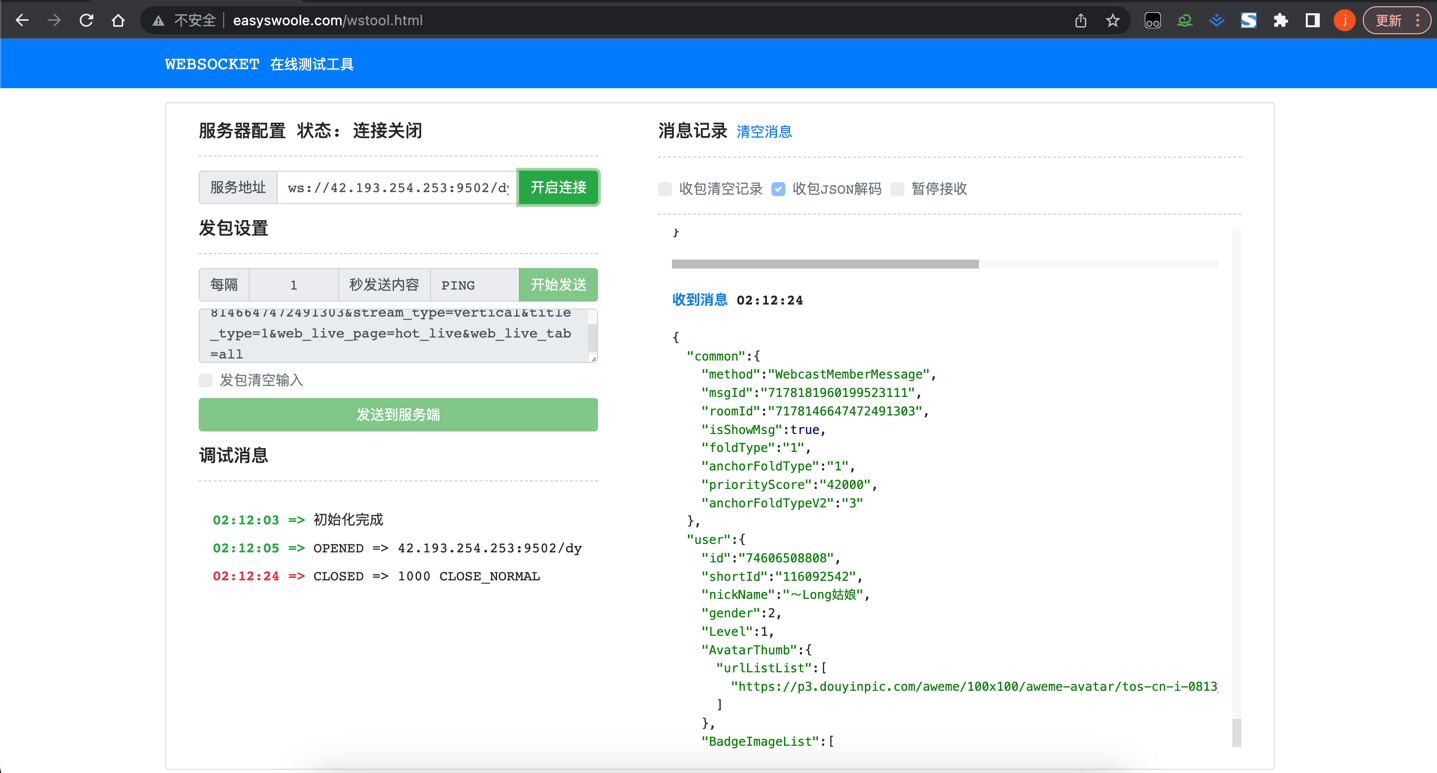
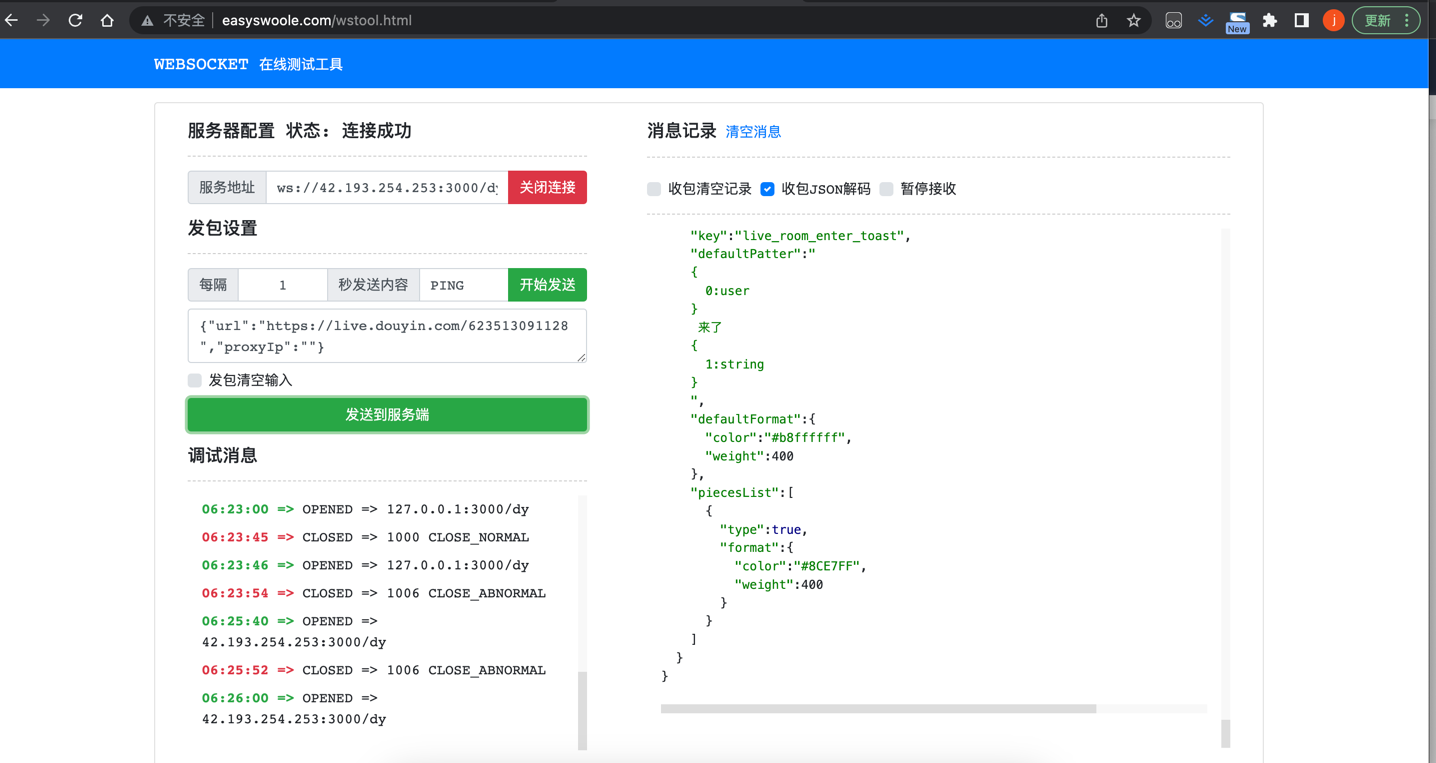
feat:增加文档说明

diff --git a/README.MD b/README.MD
@@ -1,6 +1,14 @@
 # 抖音网页版协议 👋
+## 版本更新记录📝
+| 版本   | 更新内容                                                                           | 更新时间       |
+|------|--------------------------------------------------------------------------------|------------|
+| v1.0 | 完成第一版抖音弹幕协议更新 （熬了好几夜一只是无法连接抖音ws，还特意去了解了一下ws底层远离，人都快痿了，最后坚持完成✊）                 | 2022.12.03 |
+| v1.1 | 抖音协议更新&增加用户信息字段                                                                | 2023.01.13 |
+| v1.2 | 修复Go服务端数据补全问题                                                                  | 2023.02.01 |
+| v1.3 | 重构Go快手服务端（增加代理IP传参,废弃PHP版本服务端，补全接入文档说明，增加`哔哩哔哩｜Bilibili`API接口【点赞、评论、分享、收藏、投币】） | 2023.02.15 |
 
-## [快手请移步👉](https://github.com/YunzhiYike/kuaishou-live)
+## [抖音请移步👉](https://github.com/YunzhiYike/douyin-live)
+## [bilibili接入文档👉](https://github.com/YunzhiYike/bilibili-openAPi)
 
 ## 🧪私有化抖音&快手弹幕服务
 > 背景：考虑到开发语言各有不同所以对协议的拆解二开需要花费很多的时间，亦或者说对于萌新同学来讲上手程度太高
@@ -11,11 +19,24 @@
 
 ## 测试注意⚠ ：因为风控原因开放服务可能不能正常使用可以联系我们提供免费测试～～  📮联系 `wuaiyiyun2022@163.com`
 
-### 服务地址(PHP版)
-> websocket地址：ws://42.193.254.253:9502/dy
-
-### 服务地址(Go版 强力推荐)
+### 服务地址
 > websocket地址：ws://42.193.254.253:3000/dy
+
+### 连接说明 ⬆
+#### 1、首次连接发送数据格式
+```json
+{"url":"电脑网页版抖音直播间地址（必填参数）","proxyIp":"代理IP（此字段不是必填，不填则走原服务器IP）"}
+```
+#### 2、连接后心跳说明
+>为了提供资源可用性我们需要在3分钟内发送一个心跳包，包内容就是一个文本`ping`（小写哦～）
+##### 2.1、Go模拟发现心跳包代码 🌰
+```go
+    data := "ping"
+    err := ws.WriteMessage(websocket.TextMessage, data)
+    if err != nil {
+        log.Fatalln(err)
+    }
+```
 
 ### websocket连接测试
 ![img_1.png](img_1.png)
@@ -29,7 +50,12 @@
 
 ## 🐂功能
 - [X] 直播
-- [ ] 短视频
+  - [X] 弹幕采集（进入、礼物、发言、关注、点赞、商品信息）
+- [X] 短视频
+  - [ ] 私信（已加入未来规划）
+  - [ ] 点赞、评论、收藏、转发（已加入未来规划）
+- [X] 成品开发
+  - [X] 抖音弹幕采集
 - [ ] 待定.........
 
 ## ⛽ 鼓励一下～
